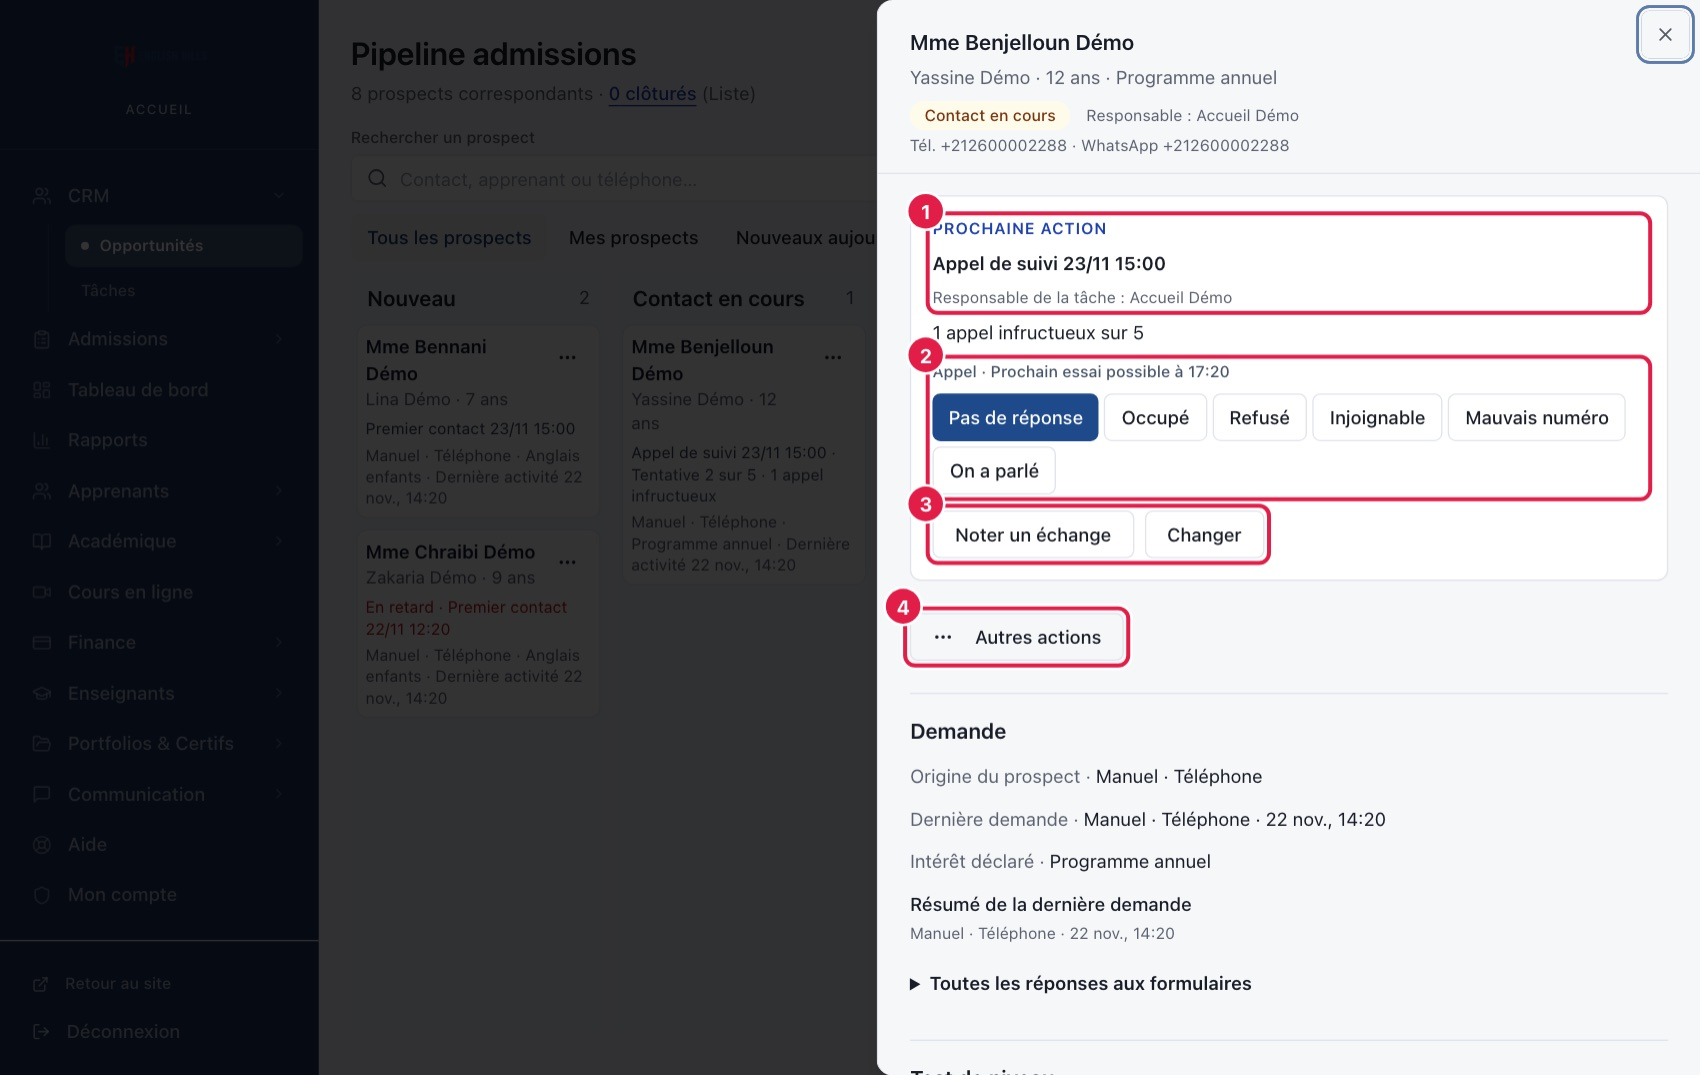
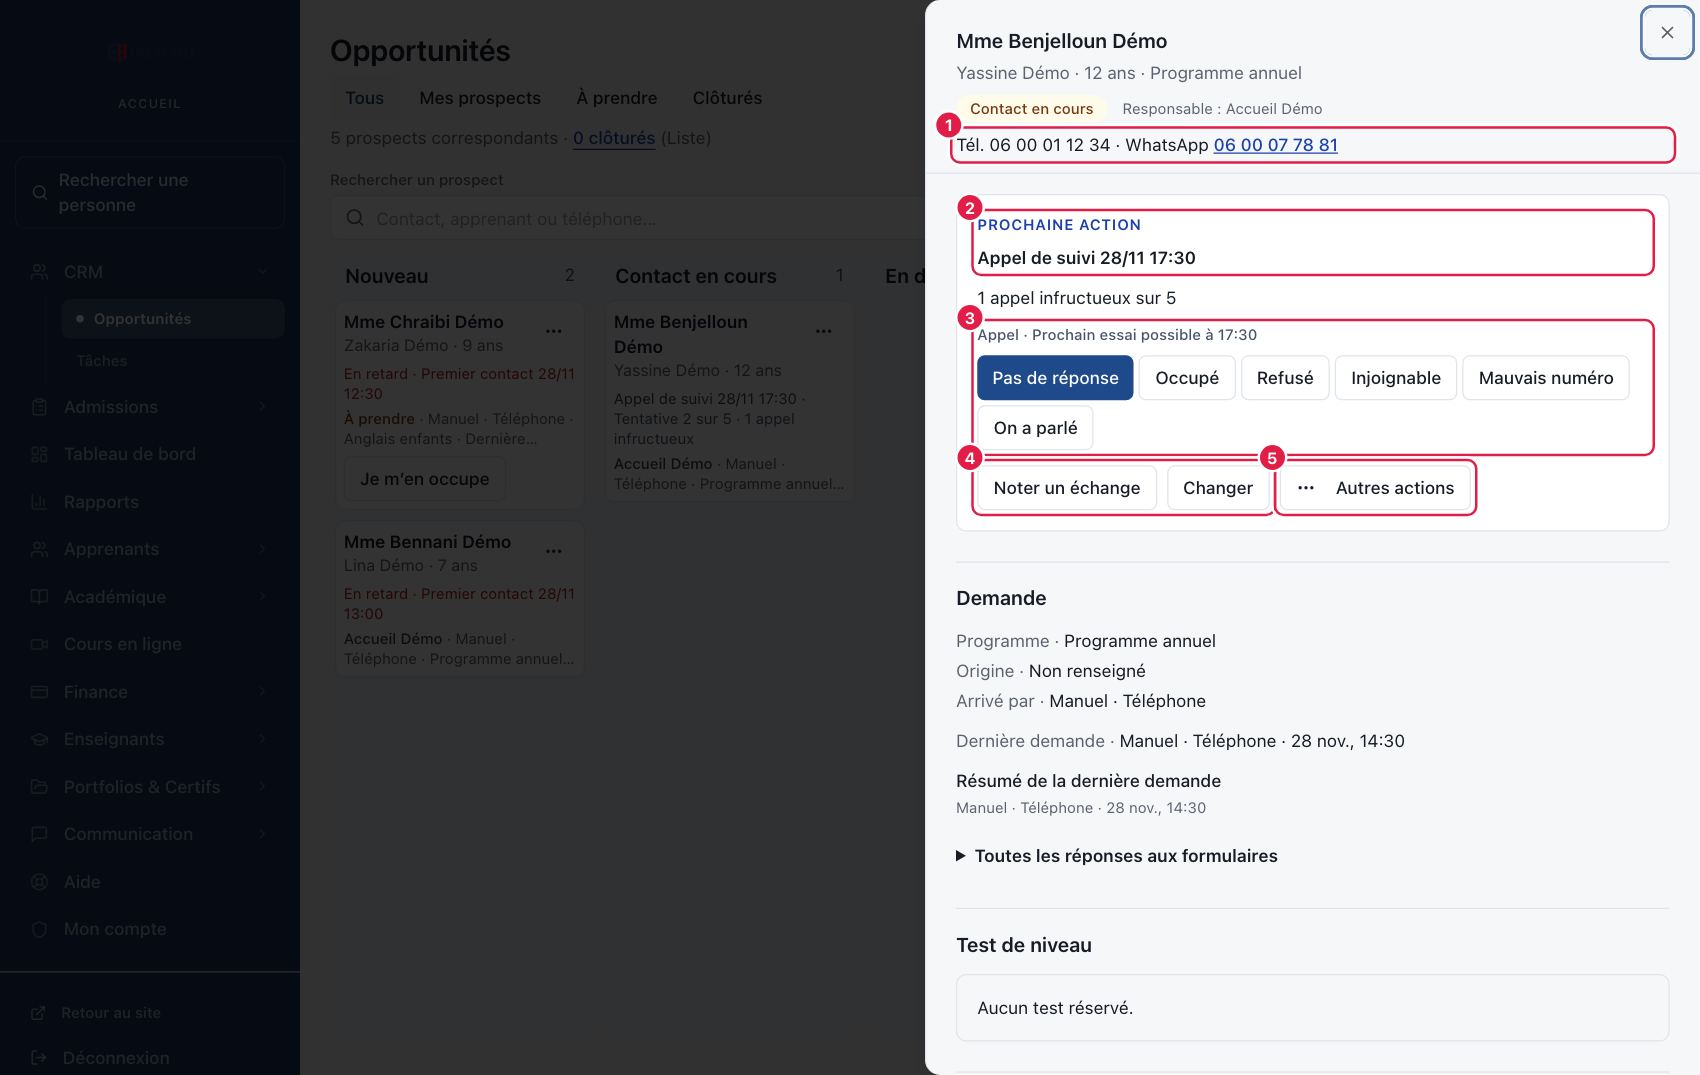
docs(help): Aide CRM screens after #227 — real « Autres actions » menu, numbers at the top of the panel, four screenshots retaken (guide 2.7; Tier 2, help page only)
- C2: « Autres actions » lists Changer de responsable, Confier cette action à…,
  Modifier la fiche, Ajouter un enfant, Clôturer le prospect.
- C2: Tél. and WhatsApp are shown at the top of the prospect panel; the WhatsApp
  number opens WhatsApp; « Copier le numéro » in Noter un échange stays as a second way.
- C5: exact label « À faire de notre côté (prix, groupe…) ».
- C1: s05 legend in screen order (Programme, Canal, Origine).
- s02-drawer, s03-call, s03b-changer, s05-manual retaken on a private local stack
  with synthetic « Démo » data, 1700 × 1075, numbered markers matching the legends.
- Version 2.7, 28 novembre 2026.

diff --git a/src/app/(admin)/helpdesk/GuideContent.jsx b/src/app/(admin)/helpdesk/GuideContent.jsx
@@ -12,8 +12,8 @@ export default function GuideContent() {
 <h1>Guide Accueil</h1>
 <p className="lead">Tout ce qu’il faut savoir pour travailler dans votre espace de la plateforme&nbsp;: suivre les prospects jusqu’à l’inscription, puis gérer au quotidien les apprenants, les paiements, les groupes, les présences et les enseignants.</p>
 <ul className="chips">
-<li>Version 2.6</li>
-<li>22 novembre 2026</li>
+<li>Version 2.7</li>
+<li>28 novembre 2026</li>
 <li>Heures de Casablanca</li>
 <li>Captures sur données fictives</li>
 </ul>
@@ -382,13 +382,13 @@ export default function GuideContent() {
 </li>
 </ol>
 <figure className="fig">
-<Image src="/helpdesk/s05-manual.jpg" width={1700} height={1075} alt="Formulaire Ajouter un prospect rempli, origine Visite au centre, avec la section Premier échange" unoptimized tabIndex={0} role="button" /><figcaption>Le formulaire <span className="ui">Ajouter un prospect</span>, pour une personne venue au centre.</figcaption>
+<Image src="/helpdesk/s05-manual.jpg" width={1700} height={1075} alt="Formulaire Ajouter un prospect rempli, canal Visite au centre, origine Passage devant le centre, avec la section Premier échange" unoptimized tabIndex={0} role="button" /><figcaption>Le formulaire <span className="ui">Ajouter un prospect</span>, pour une personne venue au centre.</figcaption>
 <ol className="legend">
 <li><span className="ui">Nom du contact</span>&nbsp;: la personne qui appelle ou qui passe (obligatoire).</li>
 <li><span className="ui">Téléphone</span>&nbsp;: la plateforme le met au format international (+212…). Facultatif, mais sans numéro valide vous ne pourrez pas appeler depuis la fiche.</li>
 <li><span className="ui">Nom de l’apprenant</span> et <span className="ui">Âge</span> (facultatif). Laissé vide, la case <span className="ui">C’est la même personne</span> est cochée&nbsp;: un adulte qui s’inscrit pour lui-même est le contact et l’apprenant.</li>
-<li><span className="ui">Canal</span>&nbsp;: Téléphone, Visite au centre, WhatsApp ou Autre (comment ce premier échange a eu lieu).</li>
 <li><span className="ui">Programme</span> (facultatif)&nbsp;: choisi dans la liste du catalogue, ou «&nbsp;À préciser&nbsp;». Une précision libre reste possible.</li>
+<li><span className="ui">Canal</span>&nbsp;: Téléphone, Visite au centre, WhatsApp ou Autre (comment ce premier échange a eu lieu).</li>
 <li><span className="ui">Origine</span> (facultatif)&nbsp;: comment la personne a connu le centre (Instagram, Facebook, Site web, Google, Recommandation, Passage devant le centre, Appel entrant, Ancien élève, Autre). Pour «&nbsp;Recommandation&nbsp;», indiquez qui a recommandé le centre dans <span className="ui">Recommandé par</span>.</li>
 <li><b>Premier échange</b>&nbsp;: ce qui a été convenu, par exemple «&nbsp;En attente du prospect&nbsp;» pour quelqu’un qui reviendra.</li>
 </ol>
@@ -420,16 +420,18 @@ export default function GuideContent() {
 <p className="when">La prochaine action est <b>Premier contact</b>, <b>Appel de suivi</b> ou <b>Rappel convenu</b>, ou vous appelez pour une autre raison.</p>
 </header>
 <figure className="fig narrow">
-<Image src="/helpdesk/s02-drawer.jpg" width={1700} height={1075} alt="Fiche d’un prospect avec l’encadré Prochaine action, les résultats d’appel, Noter un échange, Changer et Autres actions" unoptimized tabIndex={0} role="button" /><figcaption>La fiche du prospect s’ouvre sur le côté en cliquant sur son nom.</figcaption>
+<Image src="/helpdesk/s02-drawer.jpg" width={1700} height={1075} alt="Fiche d’un prospect avec le téléphone et le WhatsApp en haut, l’encadré Prochaine action, les résultats d’appel, Noter un échange, Changer et Autres actions" unoptimized tabIndex={0} role="button" /><figcaption>La fiche du prospect s’ouvre sur le côté en cliquant sur son nom.</figcaption>
 <ol className="legend">
+<li>En haut de la fiche&nbsp;: <b>Tél.</b> et <b>WhatsApp</b>, les numéros du contact. Le numéro WhatsApp est un lien&nbsp;: un clic ouvre WhatsApp. Sans numéro WhatsApp, la fiche indique «&nbsp;Indisponible&nbsp;».</li>
 <li><b>Prochaine action</b>&nbsp;: ce qui est prévu, quand, et qui s’en occupe. «&nbsp;En retard&nbsp;» s’affiche si l’heure est passée.</li>
 <li><b>Appel</b>&nbsp;: <span className="ui">Pas de réponse</span> s’enregistre en un clic&nbsp;; les autres résultats ouvrent <span className="ui">Noter un échange</span>.</li>
 <li><span className="ui">Noter un échange</span> (il s’est passé quelque chose) et <span className="ui">Changer</span> (ce qui était prévu change).</li>
-<li><span className="ui">Autres actions</span>&nbsp;: clôturer, attribuer un responsable, réattribuer l’action.</li>
+<li><span className="ui">Autres actions</span>&nbsp;: <span className="ui">Changer de responsable</span>, <span className="ui">Confier cette action à…</span>, <span className="ui">Modifier la fiche</span>, <span className="ui">Ajouter un enfant</span>, <span className="ui">Clôturer le prospect</span>.</li>
 </ol>
 </figure>
 <ol className="steps">
-<li><p>Ouvrez la fiche (clic sur le nom dans <span className="menu">Tâches</span>, sur une carte ou dans la liste). Pour voir le numéro, cliquez sur <span className="ui">Noter un échange</span>&nbsp;: <span className="ui">Copier le numéro</span>, puis passez l’appel avec votre téléphone ou votre standard. Sur un téléphone tactile, un lien <span className="ui">Appeler</span> apparaît.</p>
+<li><p>Ouvrez la fiche (clic sur le nom dans <span className="menu">Tâches</span>, sur une carte ou dans la liste). Le téléphone et le numéro WhatsApp du contact s’affichent en haut de la fiche, sous son nom (<b>Tél.</b> et <b>WhatsApp</b>). Passez l’appel avec votre téléphone ou votre standard. Pour écrire sur WhatsApp, cliquez sur le numéro WhatsApp&nbsp;: WhatsApp s’ouvre.</p>
+<p>Autre moyen&nbsp;: cliquez sur <span className="ui">Noter un échange</span>, puis <span className="ui">Copier le numéro</span>. Sur un téléphone tactile, un lien <span className="ui">Appeler</span> apparaît à côté du numéro.</p>
 </li>
 <li><p><b>Personne ne répond&nbsp;?</b> Cliquez sur <span className="ui">Pas de réponse</span>, dans la fiche ou directement sur la ligne de <span className="menu">Tâches</span>. C’est enregistré tout de suite («&nbsp;Pas de réponse enregistré&nbsp;»)&nbsp;: il n’y a rien d’autre à remplir.</p>
 </li>
@@ -666,7 +668,7 @@ export default function GuideContent() {
 <ol className="steps">
 <li><p>Dans la fiche ou sur la ligne de <span className="menu">Tâches</span>, cliquez sur <span className="ui">Changer</span>.</p>
 </li>
-<li><p>Choisissez la nouvelle prochaine action&nbsp;: <span className="ui">Rendez-vous au centre</span> (pour un prospect <span className="st st-qual">Qualifié</span>, ou pour déplacer un rendez-vous&nbsp;; sinon, notez l’échange avec <span className="ui">On a parlé</span>, qui qualifie le prospect), <span className="ui">Rappeler à l’heure convenue</span>, <span className="ui">À faire de notre côté</span>, <span className="ui">Rappeler plus tard, sans heure promise</span>, <span className="ui">En attente du prospect</span>, ou <span className="ui">Clôturer</span> avec un motif.</p>
+<li><p>Choisissez la nouvelle prochaine action&nbsp;: <span className="ui">Rendez-vous au centre</span> (pour un prospect <span className="st st-qual">Qualifié</span>, ou pour déplacer un rendez-vous&nbsp;; sinon, notez l’échange avec <span className="ui">On a parlé</span>, qui qualifie le prospect), <span className="ui">Rappeler à l’heure convenue</span>, <span className="ui">À faire de notre côté (prix, groupe…)</span>, <span className="ui">Rappeler plus tard, sans heure promise</span>, <span className="ui">En attente du prospect</span>, ou <span className="ui">Clôturer</span> avec un motif.</p>
 </li>
 <li><p>Pour simplement déplacer un rendez-vous ou un rappel convenu, gardez le même choix et changez la date&nbsp;: l’heure convenue est gardée.</p>
 </li>
@@ -2146,7 +2148,7 @@ export default function GuideContent() {
 </div>
 </div>
 </section>
-<footer className="foot"><p>Guide Accueil, version 2.6, 27 novembre 2026. Il décrit la plateforme à cette date. Les captures montrent des données fictives. Signalez à la direction tout écart entre ce guide et l’écran.</p>
+<footer className="foot"><p>Guide Accueil, version 2.7, 28 novembre 2026. Il décrit la plateforme à cette date. Les captures montrent des données fictives. Signalez à la direction tout écart entre ce guide et l’écran.</p>
 <a className="backtop" href="#prise-en-main">Retour en haut</a></footer>
     </>
   );
